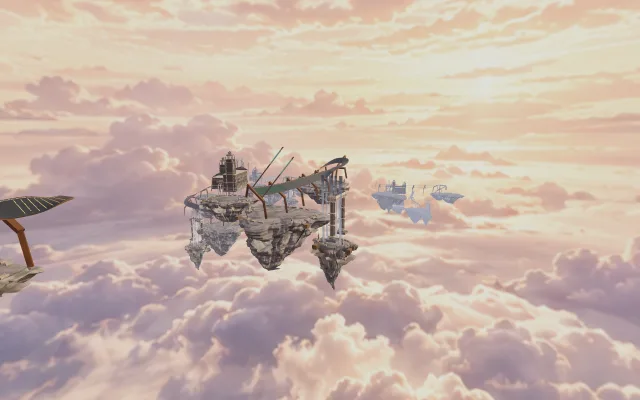
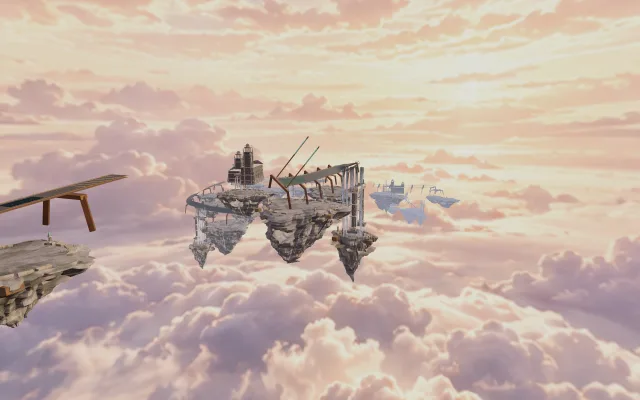
Give Skywell launches a clear settled release lane

diff --git a/games/vector-nova/src/levels/launchworks/track/model.js b/games/vector-nova/src/levels/launchworks/track/model.js
@@ -65,8 +65,9 @@ export function createLaunchworksTrack() {
   const definitions = [
     {
       label: 'Crown Hook',
+      releaseLength: 180,
       receiverType: 'bank',
-      approachHint: 'Unwind the corkscrew · turn right',
+      approachHint: 'Finish the right hook · hold the launch lane',
       receiverHint: 'Catch the right bank',
       speedHint: 'Bleed speed after the powered entry',
       speedRange: [145, 195],
@@ -76,8 +77,9 @@ export function createLaunchworksTrack() {
     },
     {
       label: 'Bell Dive',
+      releaseLength: 180,
       receiverType: 'shelf',
-      approachHint: 'Brake the plunge before release',
+      approachHint: 'Brake the dive · settle before the edge',
       receiverHint: 'Climb into the left shelf',
       speedHint: 'Gravity supplies speed · brake early',
       speedRange: [125, 180],
@@ -109,8 +111,9 @@ export function createLaunchworksTrack() {
     },
     {
       label: 'Last Light',
+      releaseLength: 180,
       receiverType: 'curve',
-      approachHint: 'Choose your line before the split',
+      approachHint: 'Finish the dive · hold the falling launch line',
       receiverHint: 'Settle into the falling curve',
       speedHint: 'A controlled dive beats full boost',
       speedRange: [125, 180],
@@ -120,13 +123,14 @@ export function createLaunchworksTrack() {
     },
   ];
   const heights = knots([
-    [0, 1480, 0],
-    [150, 1500, 0],
-    [390, 1500, 0],
+    [0, 1430, 0],
+    [150, 1440, 0.12],
+    [390, 1468.8, 0.12],
     [650, 1500, 0.12],
     [900, 1400, -0.12],
     [1350, 1380, -0.02],
-    [1750, 1420, -0.38],
+    [1600, 1390, -0.38],
+    [1870, 1311.6, -0.12],
     [2050, 1290, -0.12],
     [2400, 965, -0.16],
     [2670, 945, 0.03],
@@ -139,7 +143,8 @@ export function createLaunchworksTrack() {
     [4850, 910, 0.14],
     [5130, 840, -0.12],
     [5630, 810, -0.02],
-    [6000, 800, -0.4],
+    [5800, 800, -0.4],
+    [6070, 718, -0.1],
     [6250, 700, -0.1],
     [6590, 310, -0.12],
     [7030, 305, 0.04],
@@ -147,8 +152,8 @@ export function createLaunchworksTrack() {
   ]);
   const headings = knots([
     [0, 0],
-    [360, 0],
-    [610, 0.95],
+    [220, 0],
+    [470, 0.95],
     [1380, 0.95],
     [1500, 1.37],
     [1740, -0.35],
@@ -160,7 +165,7 @@ export function createLaunchworksTrack() {
     [4770, 2.1],
     [5670, 2.1],
     [5830, 1.7],
-    [6100, 0.5],
+    [6070, 0.5],
     [6880, 0.5],
     [7310, 0.9],
     [7600, 0.9],
@@ -170,13 +175,12 @@ export function createLaunchworksTrack() {
     [0, 0],
     [140, 0],
     [460, tau],
-    [570, tau - 0.68],
     [650, tau],
     [850, tau - 0.68],
     [1380, tau - 0.68],
     [1480, tau],
-    [1680, tau + 0.7],
-    [1970, tau - 0.24],
+    [1580, tau + 0.7],
+    [1870, tau - 0.24],
     [2050, tau - 0.24],
     [2420, tau + 0.9],
     [2850, tau + 0.9],
@@ -189,7 +193,7 @@ export function createLaunchworksTrack() {
     [5070, tau + 0.8],
     [5690, tau + 0.8],
     [5900, tau],
-    [6030, tau + 0.4],
+    [6070, tau + 0.4],
     [6250, tau + 0.4],
     [6540, tau - 0.85],
     [7050, tau - 0.85],
@@ -313,14 +317,14 @@ export function createLaunchworksTrack() {
     {
       id: 'hook-right',
       type: 'turn',
-      start: sourceDistance(360),
-      end: jumps[0].takeoff,
+      start: sourceDistance(220),
+      end: sourceDistance(470),
     },
     {
       id: 'bell-plunge',
       type: 'drop',
-      start: sourceDistance(1750),
-      end: jumps[1].takeoff,
+      start: sourceDistance(1600),
+      end: sourceDistance(1870),
     },
     {
       id: 'veil-crossing',
@@ -337,14 +341,14 @@ export function createLaunchworksTrack() {
     {
       id: 'last-light-dive',
       type: 'drop',
-      start: sourceDistance(6000),
-      end: jumps[4].takeoff,
+      start: sourceDistance(5800),
+      end: sourceDistance(6070),
     },
   ];
   return {
-    id: 'zephyr-skywell-v4',
+    id: 'zephyr-skywell-v5',
     name: 'Zephyr Skywell',
-    geometryVersion: 'long-air-bank-tube-transfers-v4',
+    geometryVersion: 'settled-release-bank-tube-transfers-v5',
     length,
     width: WIDTH,
     closed: false,
@@ -390,8 +394,8 @@ export function createLaunchworksTrack() {
         [
           `jump${index + 1}-approach`,
           {
-            distance: jump.takeoff - (index === 0 ? 560 : 320),
-            speed: index === 1 || index === 4 ? 125 : 145,
+            distance: jump.takeoff - ([0, 1, 4].includes(index) ? 560 : 320),
+            speed: index === 0 ? 115 : index === 1 || index === 4 ? 125 : 145,
             lateral: 0,
             heading: 0,
           },

diff --git a/games/vector-nova/src/levels/launchworks/track/model.test.js b/games/vector-nova/src/levels/launchworks/track/model.test.js
@@ -17,31 +17,47 @@ test('Skywell has five distinct launch and receiving problems rather than repeat
     track.jumps.map((jump) => jump.receiverType),
     ['bank', 'shelf', 'tube', 'bank', 'curve'],
   );
-  const first = track.jumps[0],
-    second = track.jumps[1],
-    fourth = track.jumps[3],
-    fifth = track.jumps[4];
+  const fourth = track.jumps[3];
   const roll = track.routeMoments.find((moment) => moment.type === 'corkscrew');
   assert.ok(
     track
       .sample(roll.start)
       .up.dot(track.sample((roll.start + roll.end) / 2).up) < -0.9,
   );
+  const hook = track.routeMoments.find((moment) => moment.id === 'hook-right');
   assert.ok(
-    angle(
-      track.sample(first.takeoff - 270).tangent,
-      track.sample(first.takeoff).tangent,
-    ) > 0.7,
+    angle(track.sample(hook.start).tangent, track.sample(hook.end).tangent) >
+      0.7,
   );
   assert.ok(
     new T.Vector3().crossVectors(
-      track.sample(first.takeoff - 270).tangent,
-      track.sample(first.takeoff).tangent,
+      track.sample(hook.start).tangent,
+      track.sample(hook.end).tangent,
     ).y < -0.6,
-    'the horizontal hook turns towards driver right, matching its advice',
+    'the hook still turns towards driver right',
   );
-  assert.ok(track.sample(second.takeoff - 180).tangent.y < -0.3);
-  assert.ok(track.sample(fifth.takeoff - 180).tangent.y < -0.3);
+  for (const index of [0, 1, 4]) {
+    const jump = track.jumps[index],
+      release = track.sample(jump.takeoff - 2);
+    for (let before = 170; before >= 10; before -= 20) {
+      const frame = track.sample(jump.takeoff - before);
+      assert.ok(
+        angle(frame.tangent, release.tangent) < 0.01,
+        `${jump.label}: steady release pitch and heading`,
+      );
+      assert.ok(
+        angle(frame.up, release.up) < 0.01,
+        `${jump.label}: steady release bank`,
+      );
+    }
+  }
+  for (const id of ['bell-plunge', 'last-light-dive']) {
+    const dive = track.routeMoments.find((moment) => moment.id === id);
+    assert.ok(
+      track.sample((dive.start + dive.end) / 2).tangent.y < -0.25,
+      'gravity dives still precede their stable launch run',
+    );
+  }
   const departure = track.sample(fourth.takeoff),
     arrival = track.sample(fourth.target);
   assert.ok(

diff --git a/games/vector-nova/src/levels/launchworks/track/road.js b/games/vector-nova/src/levels/launchworks/track/road.js
@@ -266,6 +266,19 @@ export function createLaunchworksRoad({ track, shape = false }) {
       );
     }
   for (const [i, jump] of track.jumps.entries()) {
+    // Quiet lane inlays make the settled release surface visible at speed.
+    if (jump.releaseLength)
+      for (const side of [-1, 1])
+        sweep(
+          'Launch timing inlay',
+          jump.takeoff - jump.releaseLength,
+          jump.takeoff - 3,
+          [
+            [side * 10 - 0.18, 0.045],
+            [side * 10 + 0.18, 0.045],
+          ],
+          amber,
+        );
     for (let mark = 0; mark < 7; mark++) {
       const s = jump.takeoff - 83 + mark * 11;
       sweep(

diff --git a/games/vector-nova/src/levels/launchworks/index.js b/games/vector-nova/src/levels/launchworks/index.js
@@ -14,7 +14,7 @@ import { DEVICE_SAMPLES } from '../../pickups/sample-cues.js';
 
 export default function createLevel() {
   return {
-    version: '0.4.0-skywell-freestyle-pilot',
+    version: '0.5.0-skywell-freestyle-pilot',
     freestyle: true,
     audio: {
       samples: {

diff --git a/games/vector-nova/ARCHITECTURE.md b/games/vector-nova/ARCHITECTURE.md
@@ -102,7 +102,7 @@ Halcyon uses a 5 km route with distributed rise/descent, full roll/inverted hold
 
 Freestyle · Pilot, Eliminator and Interceptor are endgame disciplines: ordinary careers must collect all 28 original rewards and acknowledge the completion credits before their mode controls or event courses become available. The shared level-access policy enforces the same gate for remembered selections, direct links and launches. Browser developer entries retain their explicit bypass. Closing the existing credits flow, including its skipped-cinematic or load-failure fallback, records acknowledgment; 28 rewards alone do not reveal these modes. Freestyle remains a pilot with separate records and no new career reward requirement.
 
-The browser Freestyle pilot is **Zephyr Skywell**, retaining the `launchworks` level ID. Five distinct transfers combine a corkscrew/right hook, a gravity plunge, a waterfall-hidden tube, a wall-to-opposing-bank release and a falling curve. The new route reuses canonical Zephyr art/materials/backdrop and Shatterline's tube surface/tessellation. Rendered running skins own physical contact; launch speed and driven road angle establish the ballistic arc, without receiver-seeking forces. Three powered approaches and two gravity dives require different speed choices. The level owns its lighter native-world gravity and supplies that same value to airborne motion and touchdown guidance. Long flight corridors lead into gently falling receiving decks; their bank and heading hold through the catch runout before the next connector turns away. It uses stock builds, no rivals and `equipmentEnabled: false`, which prevents equipment-system creation and participates in runtime identity. Records remain separate from career and Time Trials.
+The browser Freestyle pilot is **Zephyr Skywell**, retaining the `launchworks` level ID. Five distinct transfers combine a corkscrew/right hook, a gravity plunge, a waterfall-hidden tube, a wall-to-opposing-bank release and a falling curve. The new route reuses canonical Zephyr art/materials/backdrop and Shatterline's tube surface/tessellation. Rendered running skins own physical contact; launch speed and driven road angle establish the ballistic arc, without receiver-seeking forces. Three powered approaches and two gravity dives require different speed choices. The level owns its lighter native-world gravity and supplies that same value to airborne motion and touchdown guidance. Long flight corridors lead into gently falling receiving decks; their bank and heading hold through the catch runout before the next connector turns away. Crown, Bell and Last Light finish their turns/dive transitions before a marked 180 m release lane with constant pitch, heading and bank; the tube and opposing-bank transfers retain their distinct setups. It uses stock builds, no rivals and `equipmentEnabled: false`, which prevents equipment-system creation and participates in runtime identity. Records remain separate from career and Time Trials.
 
 `src/freestyle/` owns deterministic torque, rotation recognition, banked catches, five-link scoring, records and the edge HUD. Q/E rolls, Z/X pitches and C/V yaws; axes combine without a modifier. Optional Ctrl + driving directions retains pitch/roll, with Ctrl + Q/E for yaw. Controllers use the right stick for pitch/yaw and X/Y for roll; driving, boost, airbrake and pause retain their configured bindings. R3 sends a semantic camera action rather than a synthetic C key, since Freestyle owns C for yaw. Holding airbrake damps rotation and makes directional input a fine trim. A fresh well-timed squeeze can add a perfect-catch bonus; it is never required for a clean bank. Actual settled hull attitude, receiver surface/lane and contact outcome decide cleanliness. `airAttitude` modifies only the flight controller's target quaternion, with opt-in angular response/speed; actual hull sweeps decide contact. `viewQuaternion` keeps chase independent of hull tricks. Normal levels retain their existing attitude response. Normalized `aerialPitch`, `aerialYaw` and `aerialRoll` participate in replay validation.
 
